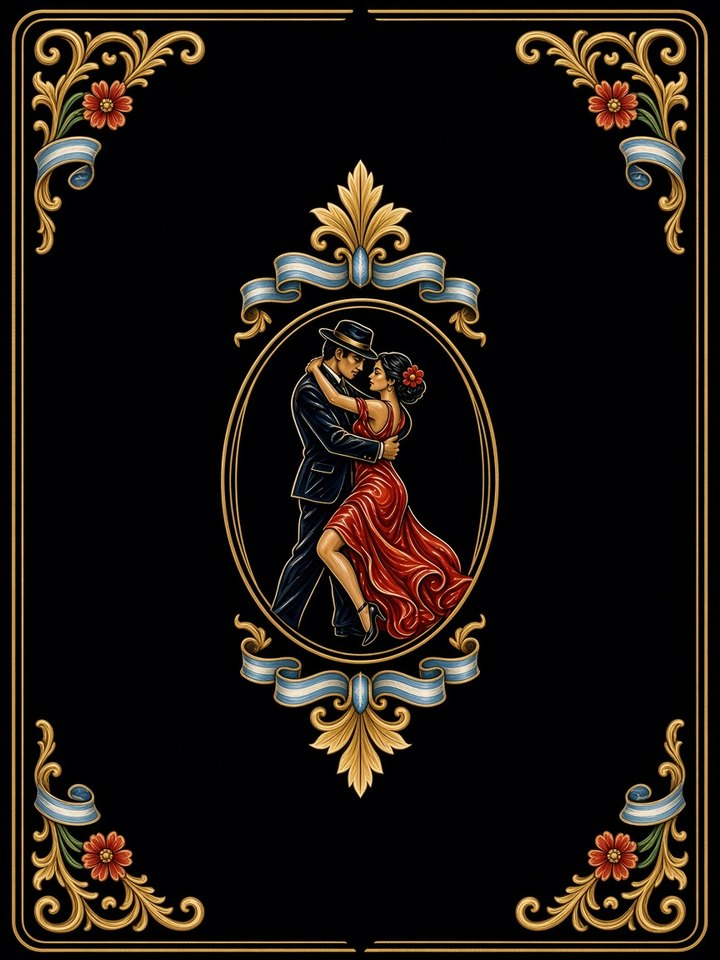
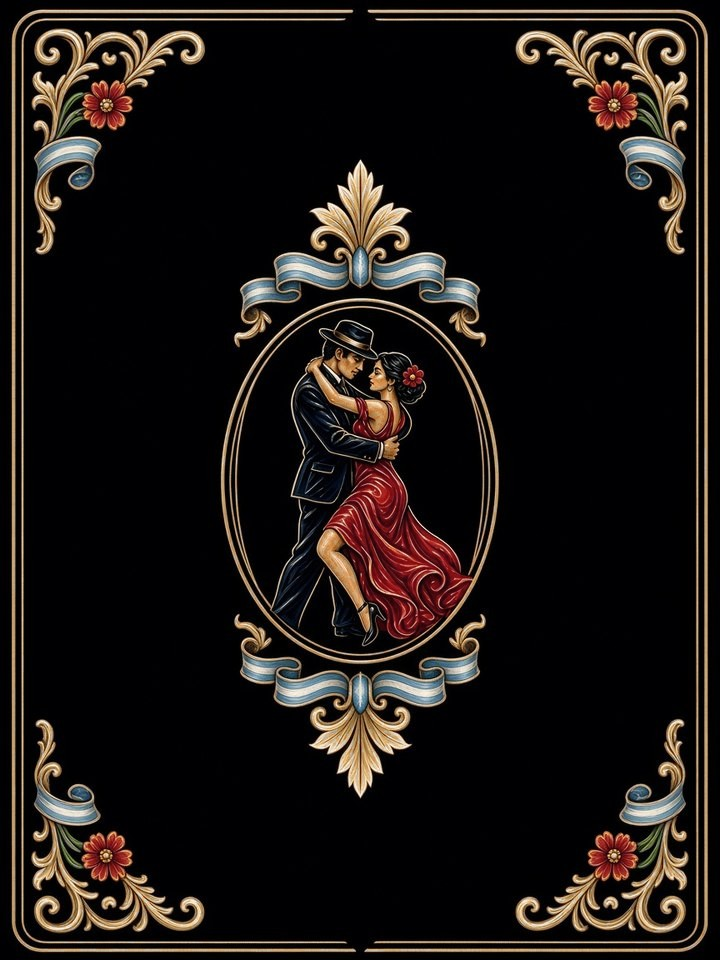
design(cards): cooler champagne card backs

diff --git a/docs/progress.md b/docs/progress.md
@@ -34,6 +34,12 @@ Round 8 (block library and Dusk):
 
 ---
 
+## 2026-10-01: cooler card backs
+
+- **Agent:** Cursor agent (Claude)
+- **Done:** Both card backs (`public/cards/back-milonga-{light,dark}.jpg`) were still yellow from the gold filete. The gold is muted to a soft champagne (hue 37 to 70°, saturation down about 60%), the orange reds of the dress and flowers are shifted toward the card crimson, and skin tones are only lightly touched.
+- **Verified:** side-by-side of both backs and a close-up of the dancers.
+
 ## 2026-10-01: cold crimson and balanced washes
 
 - **Agent:** Cursor agent (Claude)
